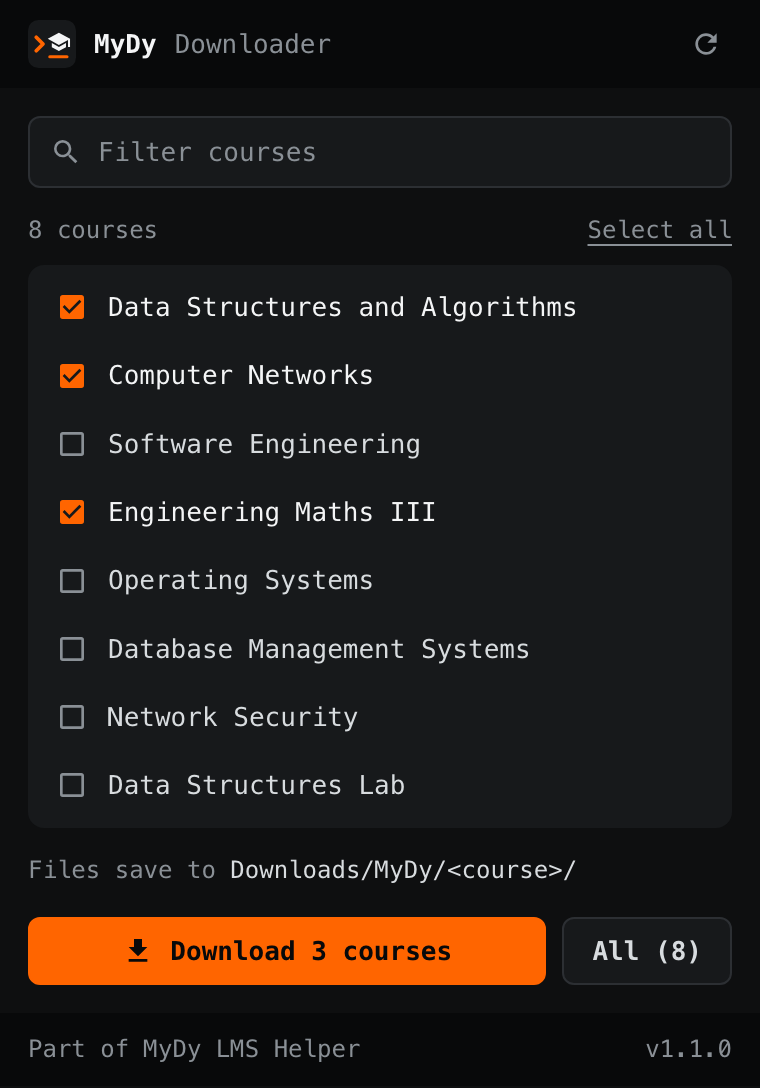
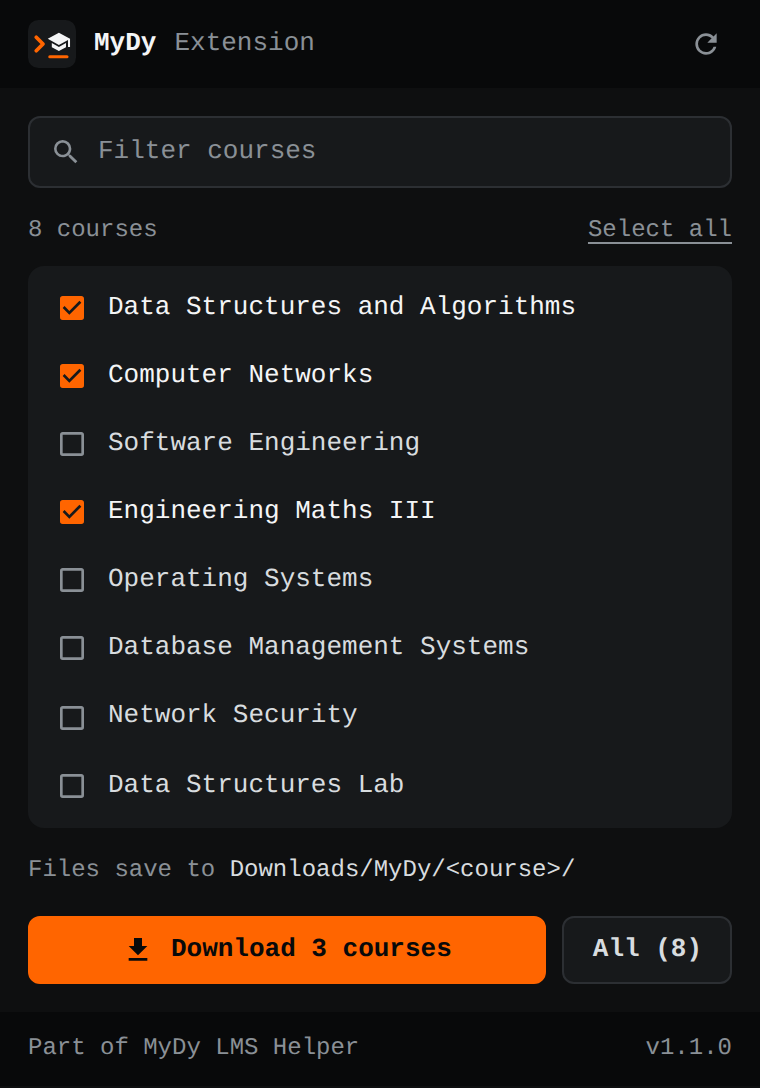
Rename the extension to MyDy Extension and ship it with the TUI release
"Downloader" undersold it next to the terminal app. The manifest, popup,
README, build scripts and extension release name now say MyDy Extension,
and the README screenshots are re-rendered to match.

tui.yml packages the extension as mydy-extension.zip next to the TUI
binaries, so every release carries it; the v6.0.0 notes list it with
install steps. The screenshot script passes --no-sandbox when run as root,
where Chrome won't start otherwise.

Claude-Session: https://claude.ai/code/session_01M5y14hyb7kLaNr7bUiS2HT

diff --git a/extension/popup.html b/extension/popup.html
@@ -2,7 +2,7 @@
 <html lang="en">
 <head>
   <meta charset="utf-8">
-  <title>MyDy Downloader</title>
+  <title>MyDy Extension</title>
   <link rel="stylesheet" href="css/popup.css">
 </head>
 <body>
@@ -32,7 +32,7 @@
         <rect x="27" y="47" width="27" height="4" rx="2" fill="#FF6500"/>
       </svg>
       <span class="brand-name">MyDy</span>
-      <span class="brand-sub">Downloader</span>
+      <span class="brand-sub">Extension</span>
     </div>
     <button id="refreshBtn" class="icon-button" type="button" title="Reload courses" aria-label="Reload courses" hidden>
       <svg class="ic"><use href="#i-refresh"/></svg>

diff --git a/extension/js/background.js b/extension/js/background.js
@@ -1,4 +1,4 @@
-// MyDy Downloader service worker.
+// MyDy Extension service worker.
 // - Saves files for content.js into Downloads/MyDy/<course>/, one at a time.
 // - Keeps the latest state of a download run in chrome.storage.session, so the popup can show it again
 //   after being closed, and mirrors it on the toolbar icon's badge.
@@ -195,5 +195,5 @@ function showBadge(run) {
 const mydyBackground = new MydyBackground();
 
 chrome.runtime.onInstalled.addListener(() => {
-    console.log('MyDy Downloader installed');
+    console.log('MyDy Extension installed');
 });

diff --git a/extension/scripts/build-webstore.js b/extension/scripts/build-webstore.js
@@ -7,7 +7,7 @@ const version = packageJson.version;
 const buildDir = 'dist';
 const packageName = `mydy-extension-v${version}-webstore.zip`;
 
-console.log(`Building MyDy Downloader v${version} for Chrome Web Store...`);
+console.log(`Building MyDy Extension v${version} for Chrome Web Store...`);
 
 // Clean previous builds
 if (fs.existsSync(buildDir)) {

diff --git a/extension/css/popup.css b/extension/css/popup.css
@@ -1,4 +1,4 @@
-/* MyDy Downloader popup. Same tokens, type and icons as the terminal app (tui/src/theme.ts) and the website. */
+/* MyDy Extension popup. Same tokens, type and icons as the terminal app (tui/src/theme.ts) and the website. */
 :root {
   --bg: #0e0f10;
   --panel: #17191b;

diff --git a/extension/js/popup.js b/extension/js/popup.js
@@ -1,4 +1,4 @@
-// MyDy Downloader popup.
+// MyDy Extension popup.
 // Talks to js/content.js in the MyDy tab:
 //   checkLogin                  -> { loggedIn }
 //   getCourses                  -> { courses: [{ id, name }] } | { error }

diff --git a/.github/release-notes/v6.0.0.md b/.github/release-notes/v6.0.0.md
@@ -24,6 +24,7 @@ Download the binary for your system from the assets below.
 | Linux, x64 | `mydy-linux-x64` |
 | Linux, ARM64 | `mydy-linux-arm64` |
 | Windows, x64 | `mydy-windows-x64.exe` |
+| Chrome extension | `mydy-extension.zip` |
 
 macOS and Linux:
 
@@ -34,6 +35,8 @@ xattr -d com.apple.quarantine mydy-darwin-arm64   # macOS only
 ```
 
 On Windows, run `mydy-windows-x64.exe` from a terminal.
+
+The Chrome extension downloads your course files from the browser: extract `mydy-extension.zip`, open `chrome://extensions/`, turn on **Developer mode**, click **Load unpacked** and pick the folder.
 
 The binaries are not signed or notarized. On macOS the `xattr` line above is required. On Windows, SmartScreen may ask you to confirm.
 
@@ -46,7 +49,7 @@ Sign in with `MYDY_USERNAME` and `MYDY_PASSWORD` (environment or a `.env` file),
 - **Config file** (optional): `~/.config/mydy/config.json`, or `%APPDATA%\mydy\config.json` on Windows. Keys: `downloadDir`, `nerdFont` (`true`, `false` or `"auto"`, the default), `threshold`, `animations`.
 - **Linux builds target glibc distributions.** They are not built for musl-based systems such as Alpine.
 - **Nerd Font:** installing one isn't enough; select it in your terminal's settings too. Use the regular variant (for example JetBrainsMono Nerd Font), not the Mono variant. `--nerd-font`, `--no-nerd-font` or `MYDY_NERD_FONT=1`/`0` override the detection.
-- The Chrome extension is released separately, under `ext-v*` tags.
+- **The Chrome extension** is now called MyDy Extension and ships with this release as `mydy-extension.zip`. It is also released on its own under `ext-v*` tags.
 - Website and live demo: https://deeptanshuu.github.io/mydy-lms-helper/
 
 Unofficial and not affiliated with D.Y. Patil or MyDy. Your login is only sent to MyDy.

diff --git a/extension/README.md b/extension/README.md
@@ -2,7 +2,7 @@
 
 <img src="icons/logo.png" alt="" width="96">
 
-# MyDy Downloader
+# MyDy Extension
 
 Every course's files from MyDy in one go, sorted into a folder per course.
 
@@ -28,7 +28,7 @@ Downloads resources, FlexPaper PDFs, presentations, case studies and DY Question
 
 ## Install
 
-1. Download the latest `ext-v*` zip from [Releases](https://github.com/Deeptanshuu/mydy-lms-helper/releases) and extract it (or use this folder).
+1. Download `mydy-extension.zip` from the [latest release](https://github.com/Deeptanshuu/mydy-lms-helper/releases/latest) and extract it (or use this folder).
 2. Open `chrome://extensions/`, turn on **Developer mode**, click **Load unpacked** and pick the folder.
 3. Open [mydy.dypatil.edu](https://mydy.dypatil.edu), sign in, click the extension icon, choose courses and download.
 
